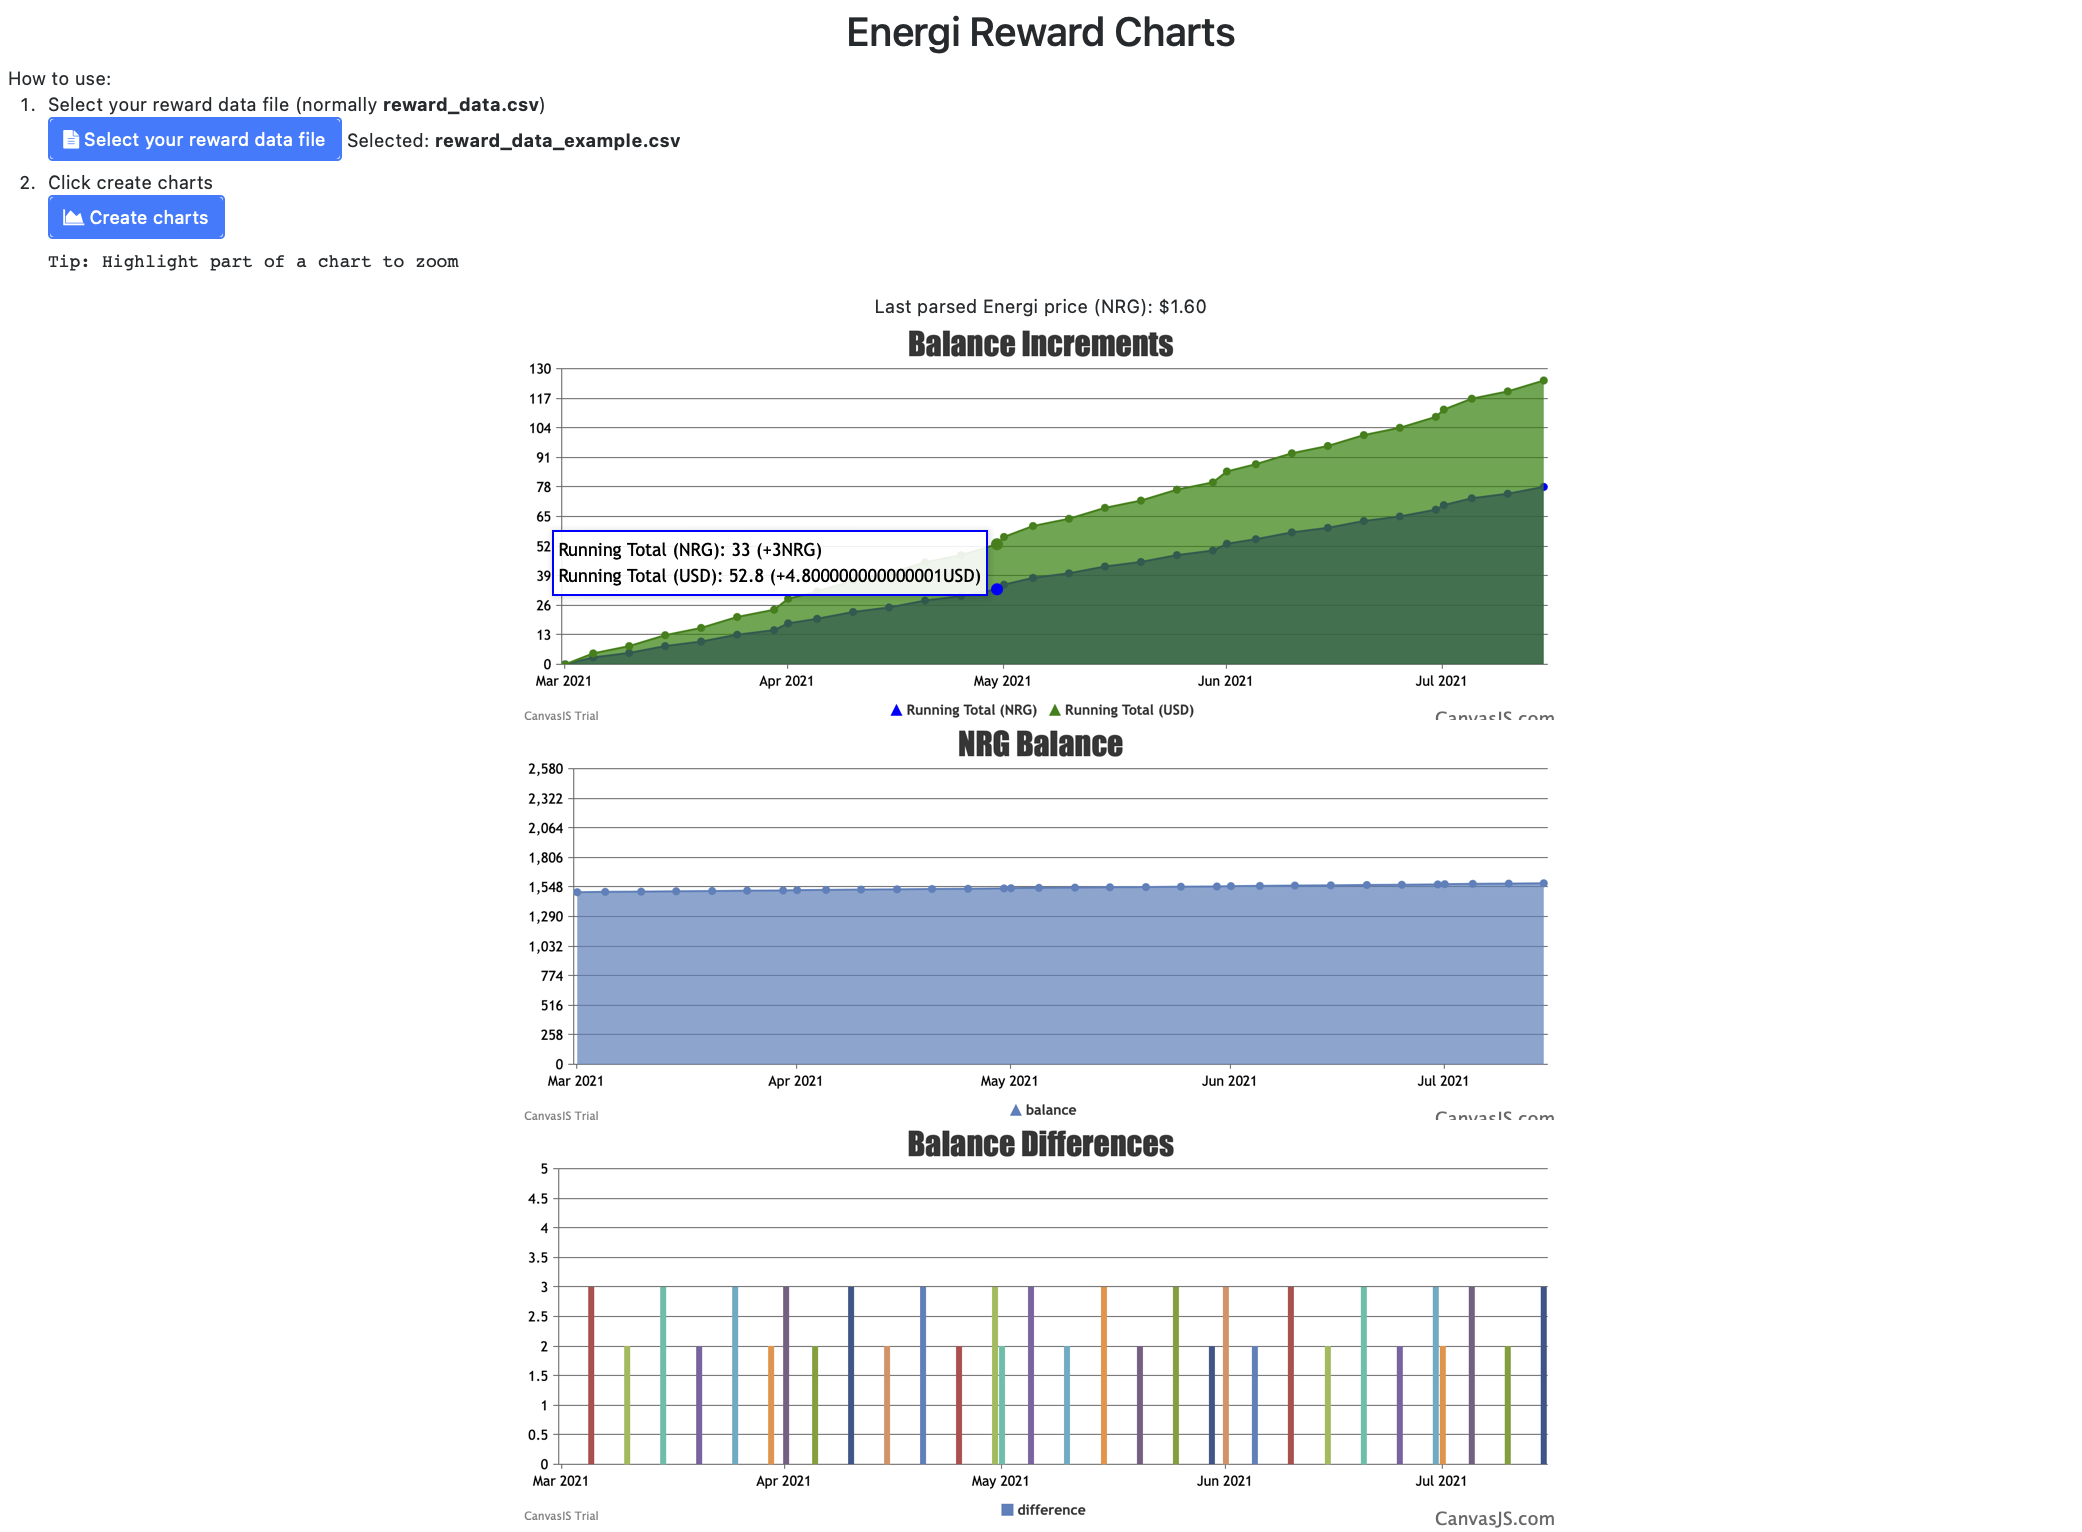
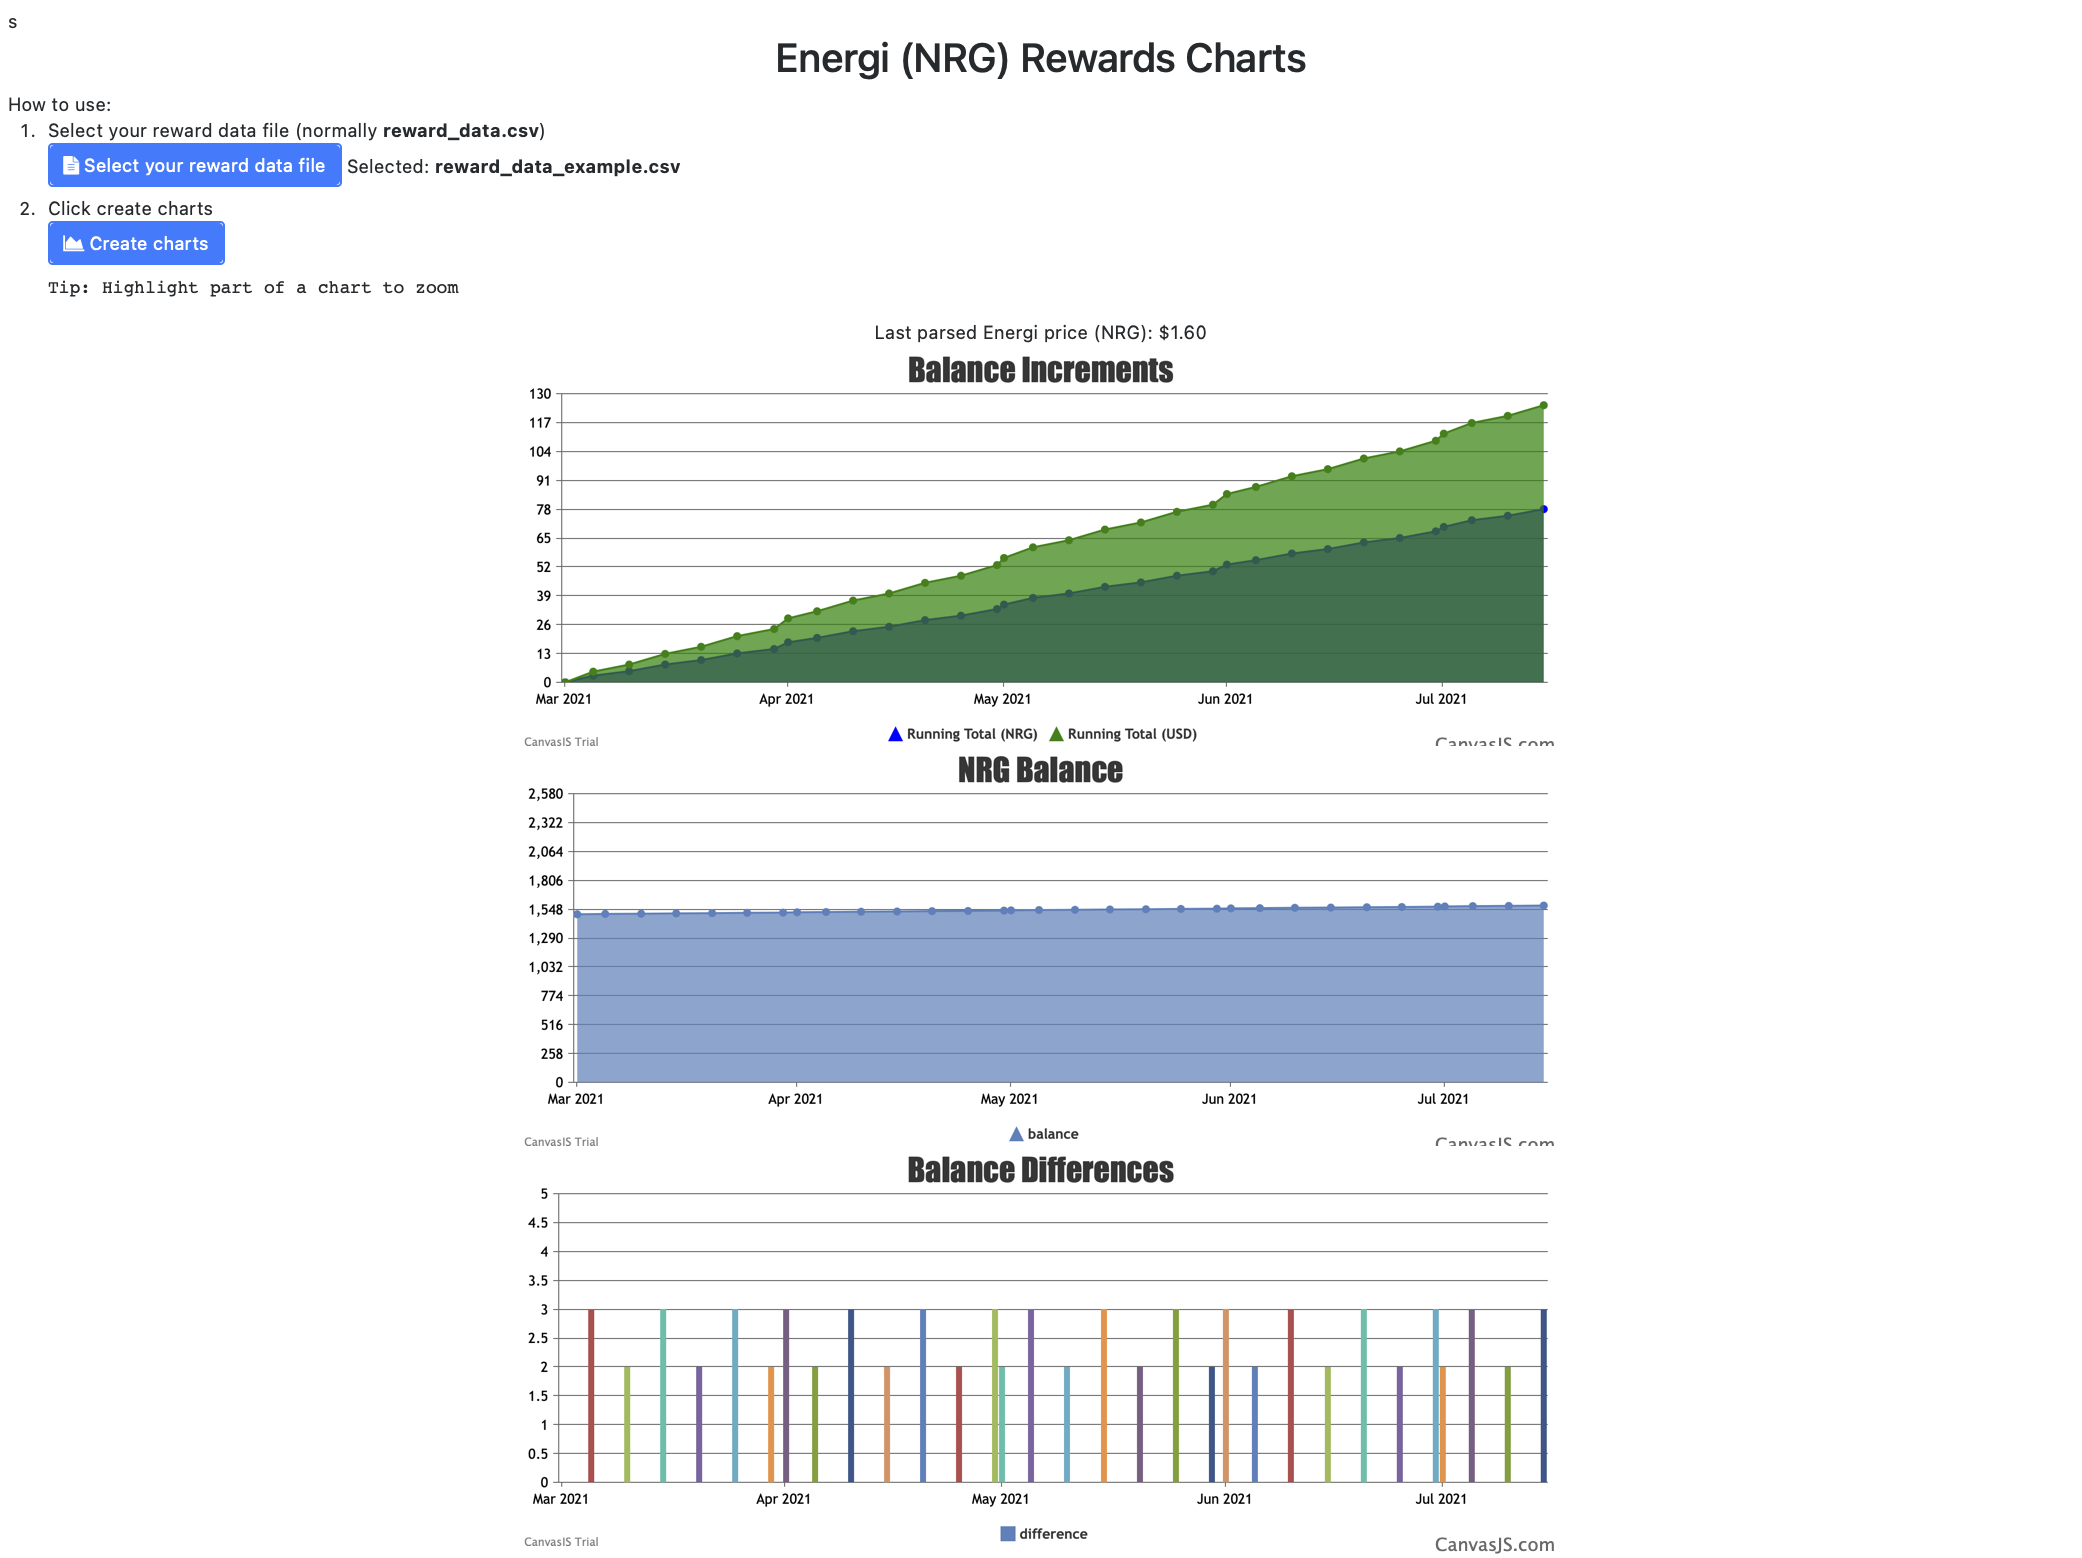
Update some text and the screenshot

diff --git a/ATRewardsCharts-NRG.html b/ATRewardsCharts-NRG.html
@@ -7,11 +7,11 @@
     <link href="https://stackpath.bootstrapcdn.com/bootstrap/4.1.3/css/bootstrap.min.css" rel="stylesheet"/>
     <link href="https://stackpath.bootstrapcdn.com/font-awesome/4.7.0/css/font-awesome.min.css" rel="stylesheet"/>
 
-    <title>Energi Reward Charts</title>
-</head>
+    <title>Energi (NRG) Reward Charts</title>
+</head>s
 <body style="padding: 8px;">
     <div id="headerContainer">
-        <center><h1>Energi Reward Charts</h1></center>
+        <center><h1>Energi (NRG) Rewards Charts</h1></center>
     </div>
     <div id="descriptionContainer">
         How to use:
